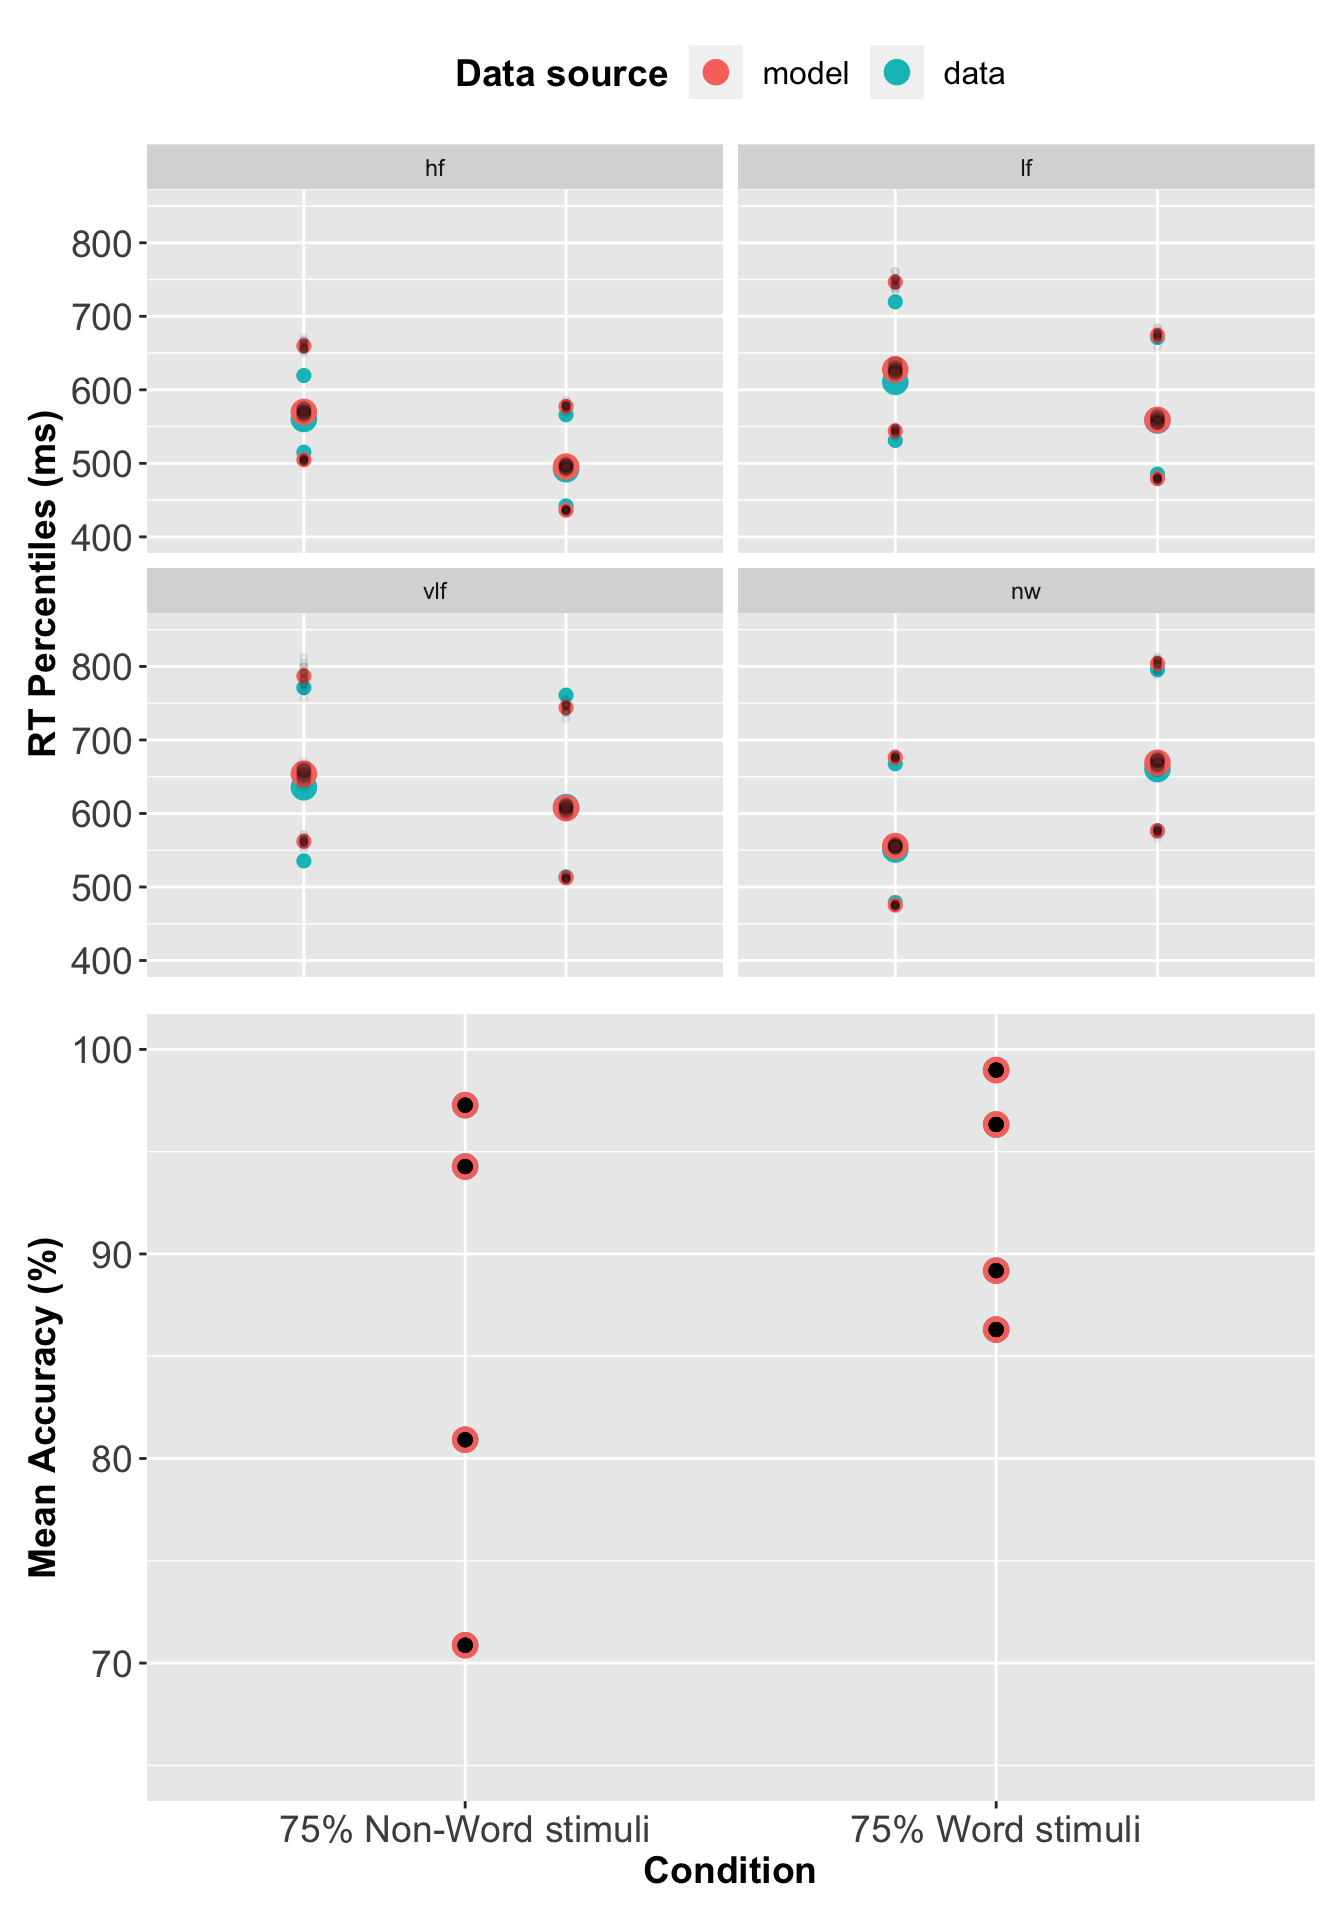
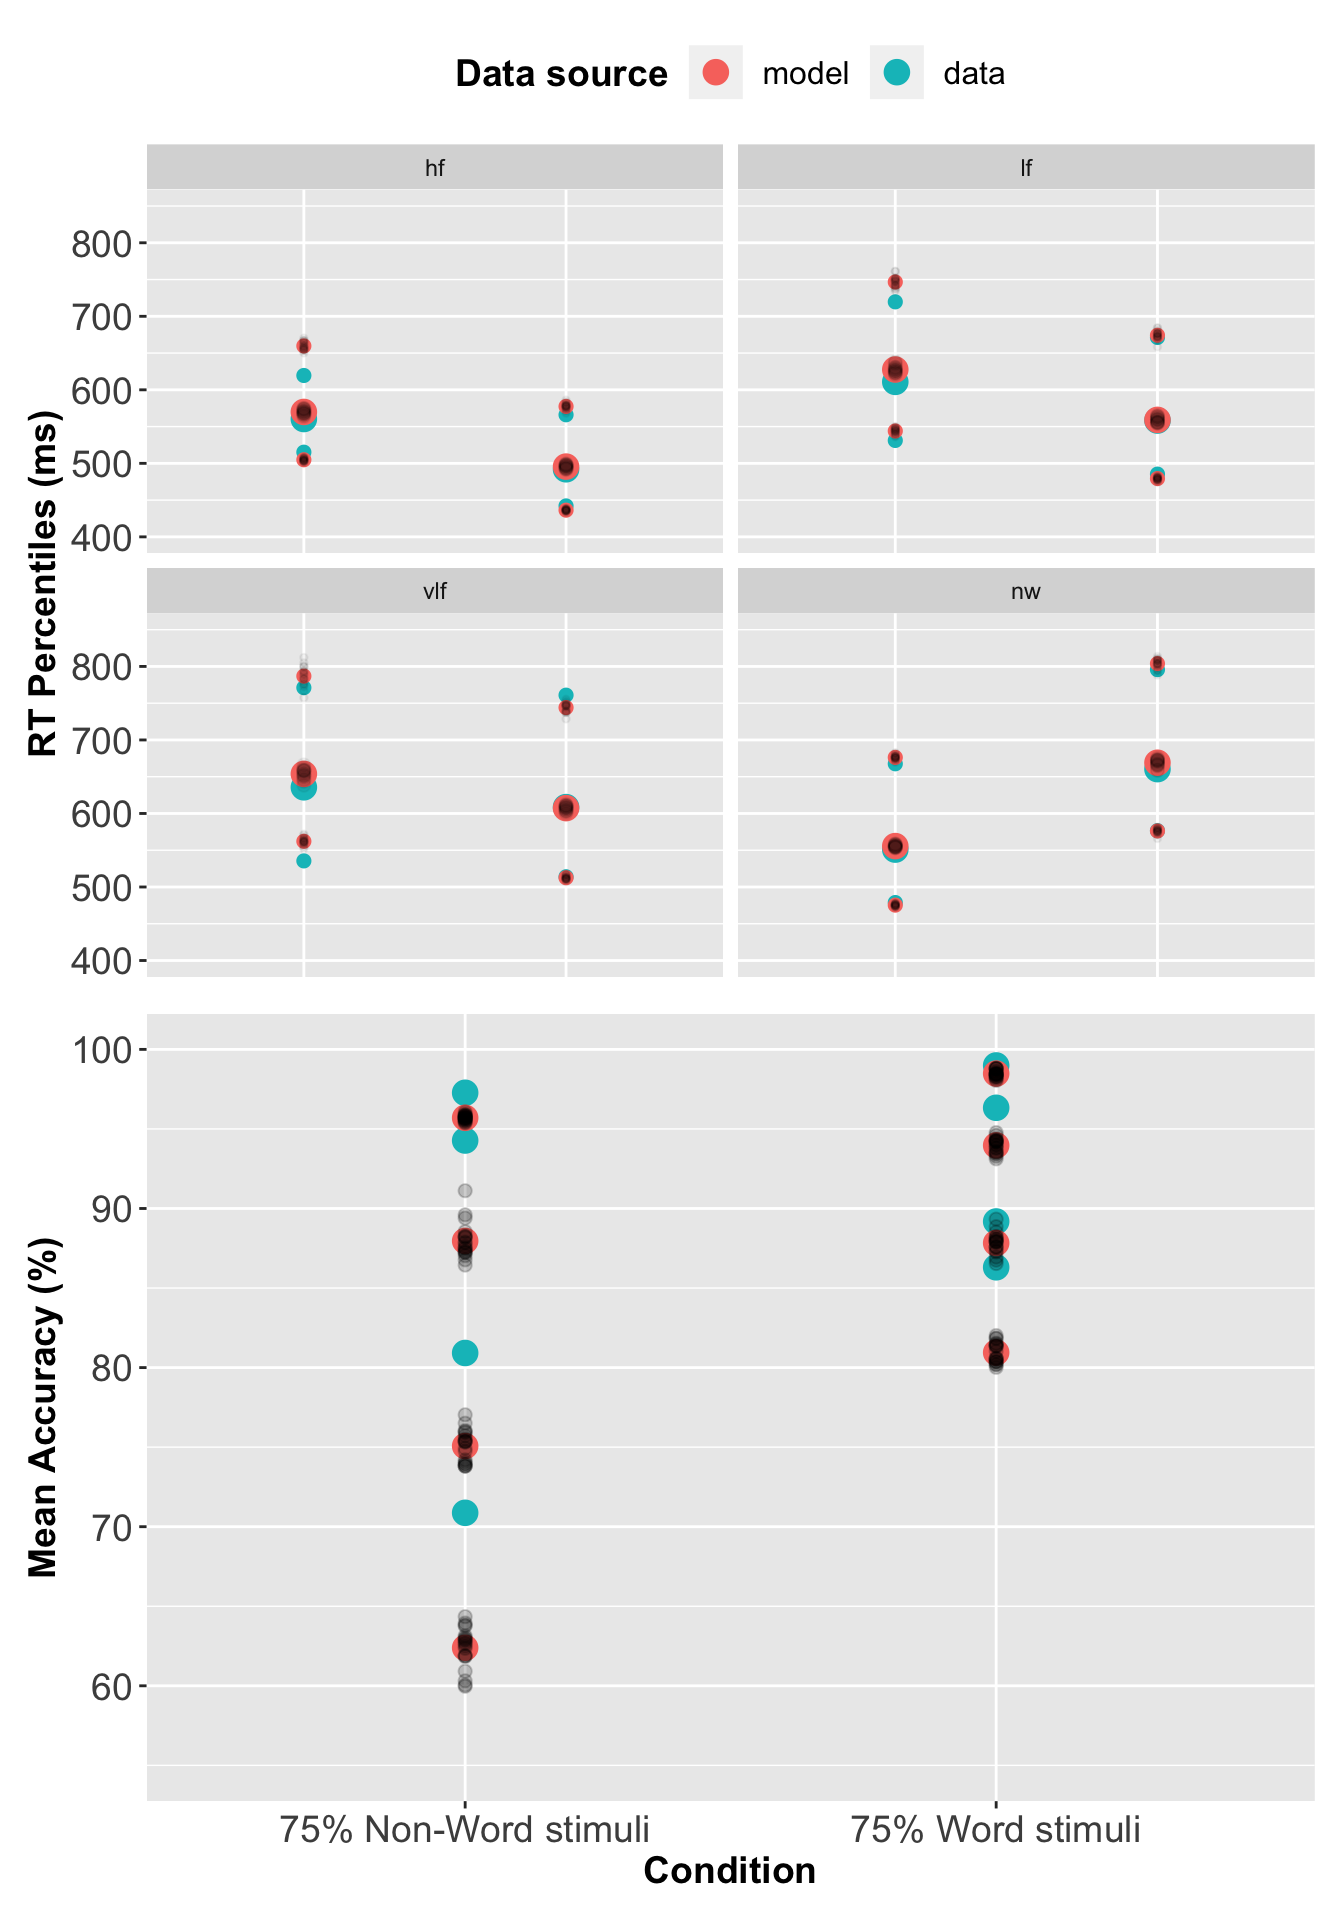
Update wag ppdata plots

diff --git a/docs/pmwg-sampler-with-the-linear-ballistic-accumulator-and-a-complex-experiment-design.html b/docs/pmwg-sampler-with-the-linear-ballistic-accumulator-and-a-complex-experiment-design.html
@@ -567,17 +567,20 @@ code > span.in { color: #60a0b0; font-weight: bold; font-style: italic; } /* Inf
 <div class="sourceCode"><pre class="sourceCode r"><code class="sourceCode r"><span class="co"># Recode condition column in order to calculate accuracy</span>
 <span class="co"># Data</span>
 wagenmakers<span class="op">$</span>condition &lt;-<span class="st"> </span><span class="kw">recode</span>(wagenmakers<span class="op">$</span>condition, <span class="dt">w =</span> <span class="st">&quot;W&quot;</span>, <span class="dt">nw =</span><span class="st">&quot;NW&quot;</span> )
+wagenmakers<span class="op">$</span>correct &lt;-<span class="st"> </span>wagenmakers<span class="op">$</span>correct <span class="op">-</span><span class="st"> </span><span class="dv">1</span>
 <span class="co"># Posterior predictive data</span>
 ppdataWag<span class="op">$</span>condition &lt;-<span class="st"> </span><span class="kw">recode</span>(ppdataWag<span class="op">$</span>condition, <span class="dt">w =</span> <span class="st">&quot;W&quot;</span>, <span class="dt">nw =</span><span class="st">&quot;NW&quot;</span> )
+ppdataWag<span class="op">$</span>binary_stim &lt;-<span class="st"> </span><span class="kw">ifelse</span>(ppdataWag<span class="op">$</span>stim <span class="op">==</span><span class="st">&quot;nw&quot;</span>, <span class="dv">1</span>, <span class="dv">2</span>)
+ppdataWag<span class="op">$</span>correct &lt;-<span class="st"> </span><span class="kw">ifelse</span>(ppdataWag<span class="op">$</span>binary_stim <span class="op">==</span><span class="st"> </span>ppdataWag<span class="op">$</span>response, <span class="dv">1</span>, <span class="dv">0</span>)
 
 <span class="co"># Subject x condition Q25, median and Q75 respone time + mean accuracy </span>
 <span class="co"># Wagenmakers dataset</span>
 pqWag &lt;-<span class="st"> </span>wagenmakers <span class="op">%&gt;%</span><span class="st"> </span>
-<span class="st">  </span><span class="kw">group_by</span>(condition, subject, stim) <span class="op">%&gt;%</span><span class="st"> </span>
+<span class="st">  </span><span class="kw">group_by</span>(subject, condition, stim) <span class="op">%&gt;%</span><span class="st"> </span>
 <span class="st">  </span><span class="kw">summarise</span>(<span class="dt">Q25 =</span> <span class="kw">quantile</span>(rt, <span class="dt">prob =</span> <span class="fl">0.25</span>),
             <span class="dt">median =</span> <span class="kw">median</span>(rt), 
             <span class="dt">Q75 =</span> <span class="kw">quantile</span>(rt, <span class="dt">prob =</span> <span class="fl">0.75</span>),
-            <span class="dt">acc =</span>  <span class="kw">mean</span>(<span class="kw">ifelse</span>(correct <span class="op">==</span><span class="st"> </span><span class="dv">2</span>, <span class="dv">1</span>, <span class="dv">0</span>)),
+            <span class="dt">acc =</span>  <span class="kw">mean</span>(correct),
             <span class="dt">.groups =</span> <span class="st">&quot;keep&quot;</span>
             )
 
@@ -587,7 +590,7 @@ pp_pqWag &lt;-<span class="st"> </span>ppdataWag <span class="op">%&gt;%</span>
 <span class="st">  </span><span class="kw">summarise</span>(<span class="dt">Q25 =</span> <span class="kw">quantile</span>(rt, <span class="dt">prob =</span> <span class="fl">0.25</span>),
             <span class="dt">median =</span> <span class="kw">median</span>(rt), 
             <span class="dt">Q75 =</span> <span class="kw">quantile</span>(rt, <span class="dt">prob =</span> <span class="fl">0.75</span>),
-            <span class="dt">acc =</span> <span class="kw">mean</span>(<span class="kw">ifelse</span>(correct <span class="op">==</span><span class="st"> </span><span class="dv">2</span>, <span class="dv">1</span>, <span class="dv">0</span>)),
+            <span class="dt">acc =</span> <span class="kw">mean</span>(correct),
             <span class="dt">.groups =</span> <span class="st">&quot;keep&quot;</span>
             )
 
